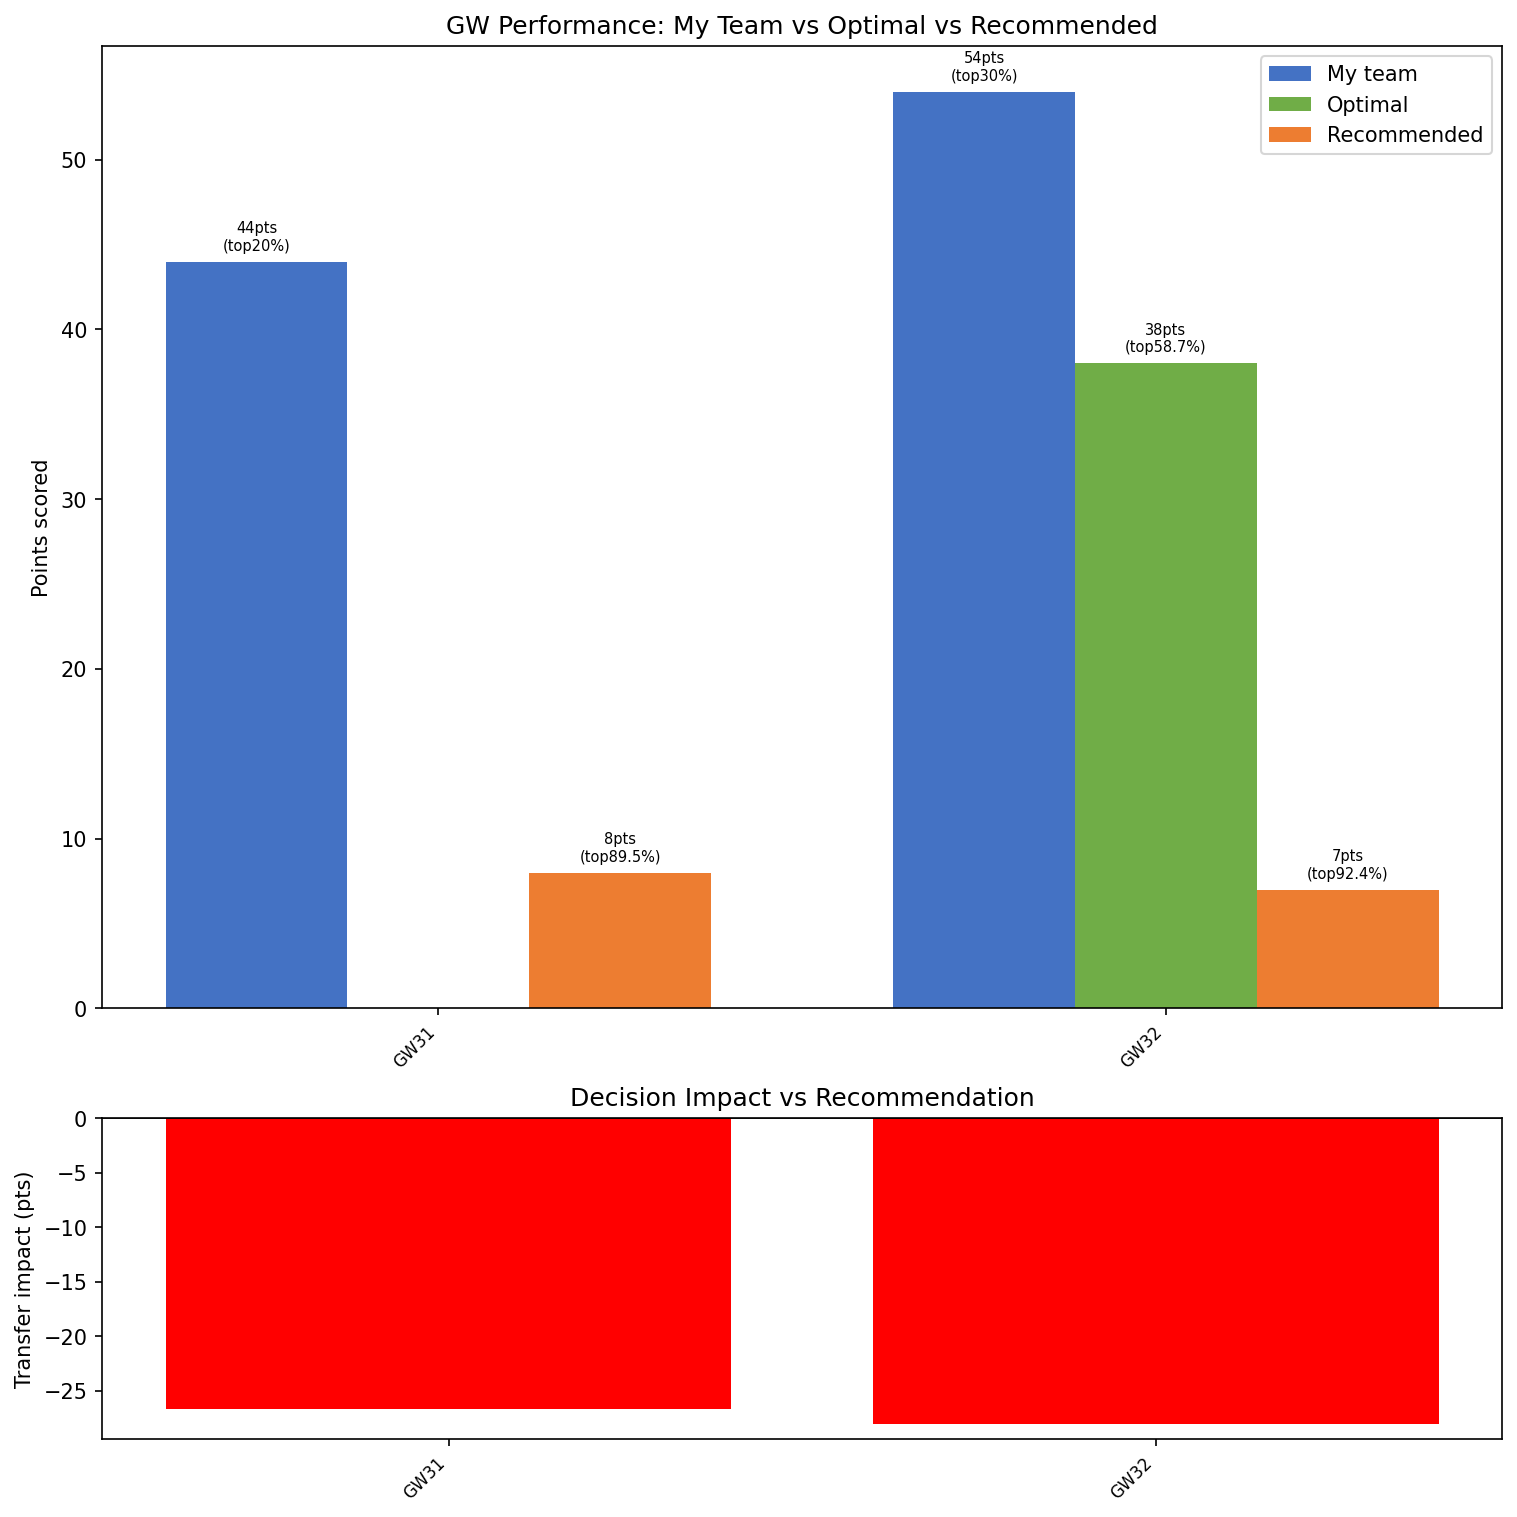
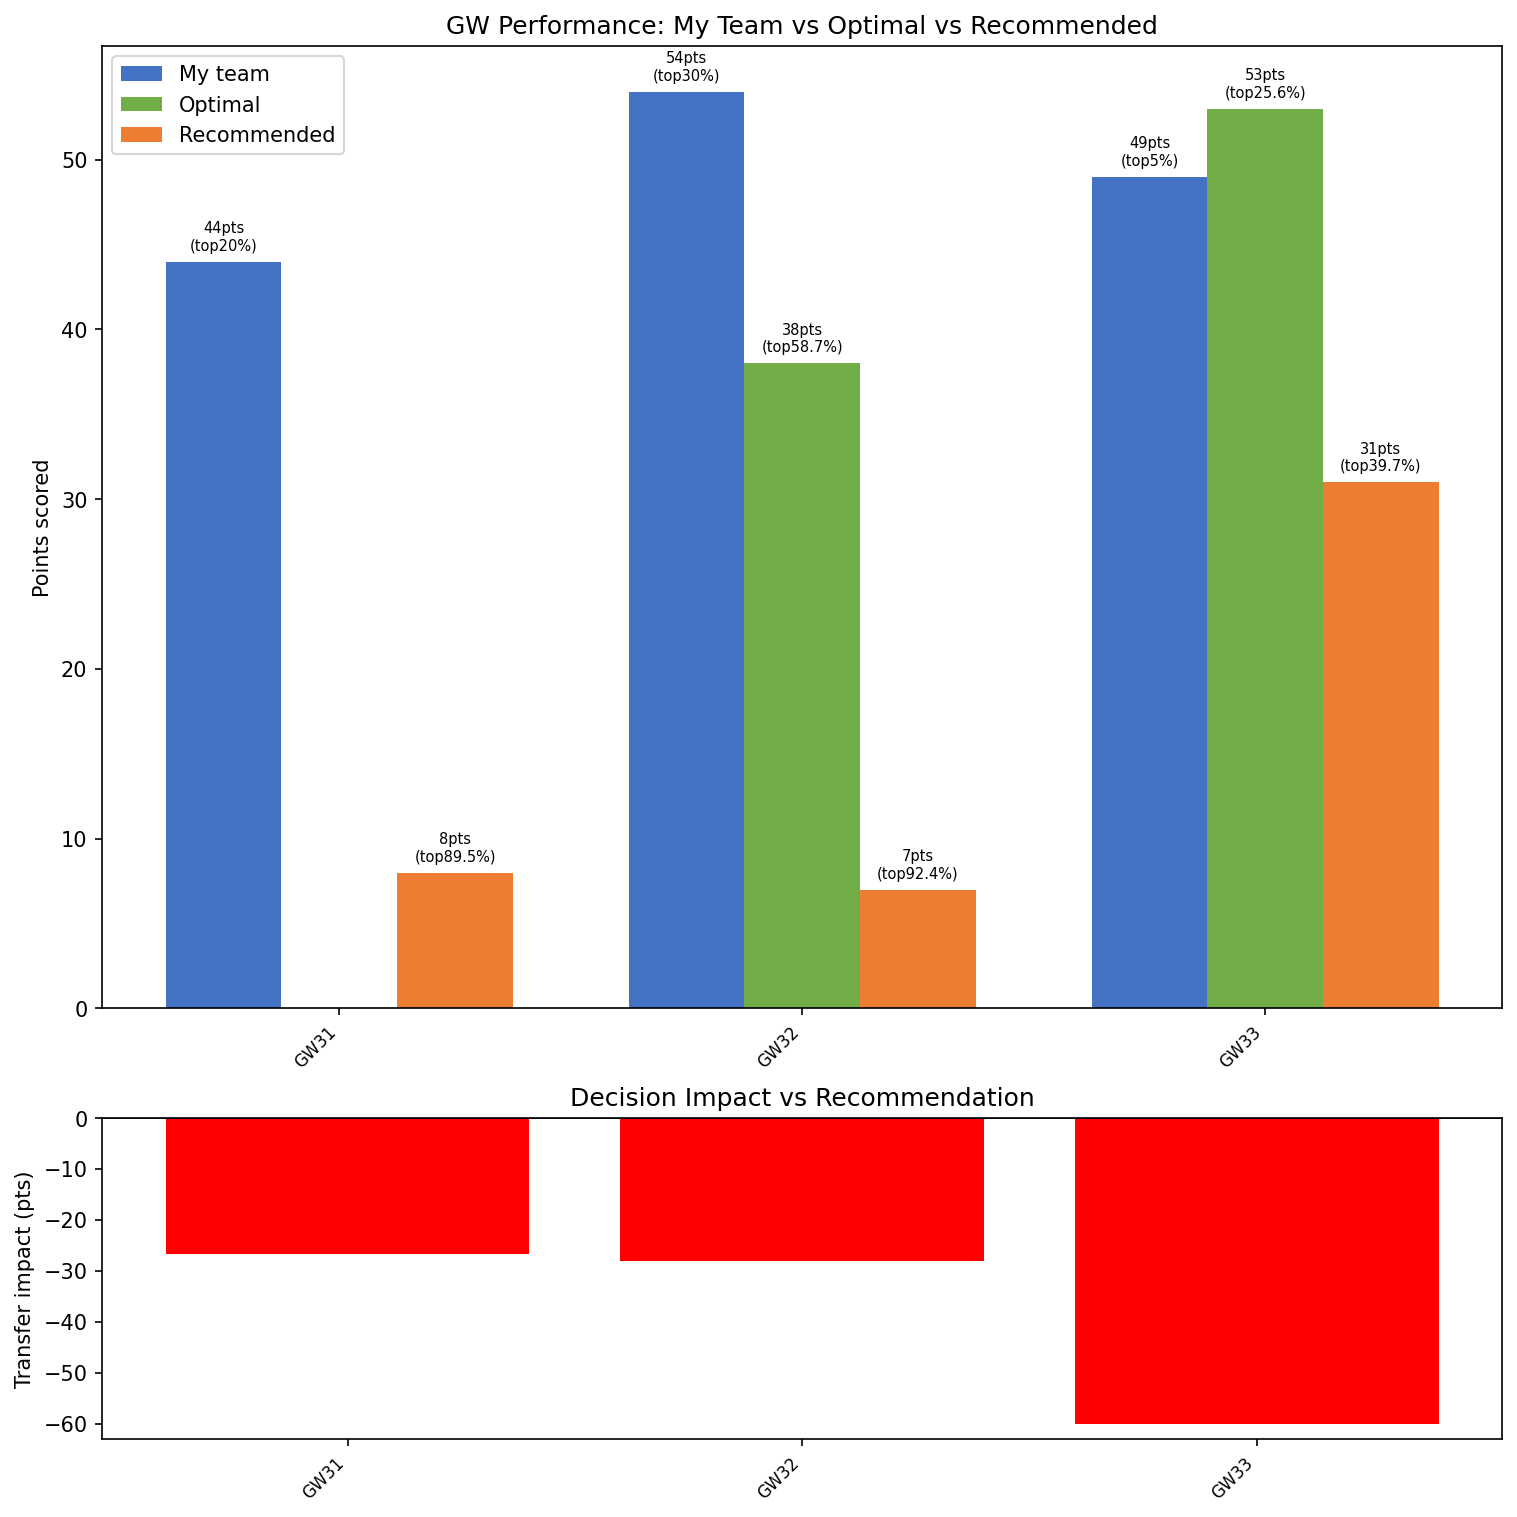
fix: resolve accuracy_log merge conflict; add gw33 actual_squad and charts

diff --git a/tests/test_promote.py b/tests/test_promote.py
@@ -14,16 +14,17 @@ from unittest.mock import patch, MagicMock
 
 @pytest.fixture
 def sample_features():
-    """Minimal feature DataFrame: 2 positions × 5 GWs × 3 players = 30 rows.
+    """Minimal feature DataFrame: 2 positions × 5 GWs × 2 players = 20 rows.
     Includes a current-season split (season="2025-26") and a training split.
     """
     rows = []
     for season, gws in [("2024-25", range(1, 6)), ("2025-26", range(1, 6))]:
         for gw in gws:
             for code, pos in [(1, "GK"), (2, "MID")]:
+                # Vary total_points by GW to avoid ConstantInputWarning in spearmanr
                 rows.append({
                     "code": code, "element": code, "season": season, "GW": gw,
-                    "position": pos, "total_points": 4 + code,
+                    "position": pos, "total_points": 4 + code + (gw % 3),
                     **{f"feat_{i}": float(i + gw) for i in range(6)},
                 })
     return pd.DataFrame(rows)
@@ -32,7 +33,8 @@ def sample_features():
 @pytest.fixture
 def dummy_model():
     m = MagicMock()
-    m.predict.side_effect = lambda X: [3.5] * len(X)
+    # Vary predictions by input index to avoid ConstantInputWarning
+    m.predict.side_effect = lambda X: [3.5 + (i % 2) for i in range(len(X))]
     m.feature_importances_ = [0.3, 0.2, 0.2, 0.1, 0.1, 0.1]
     m.feature_names_in_ = [f"feat_{i}" for i in range(6)]
     return m
@@ -149,7 +151,7 @@ class TestEvaluateCurrentSeason:
         call_rows = []
         def capture_predict(X):
             call_rows.append(len(X))
-            return [3.0] * len(X)
+            return [3.0 + (i % 2) for i in range(len(X))]
         dummy_model.predict.side_effect = capture_predict
         evaluate_current_season(
             model=dummy_model, position="GK",
